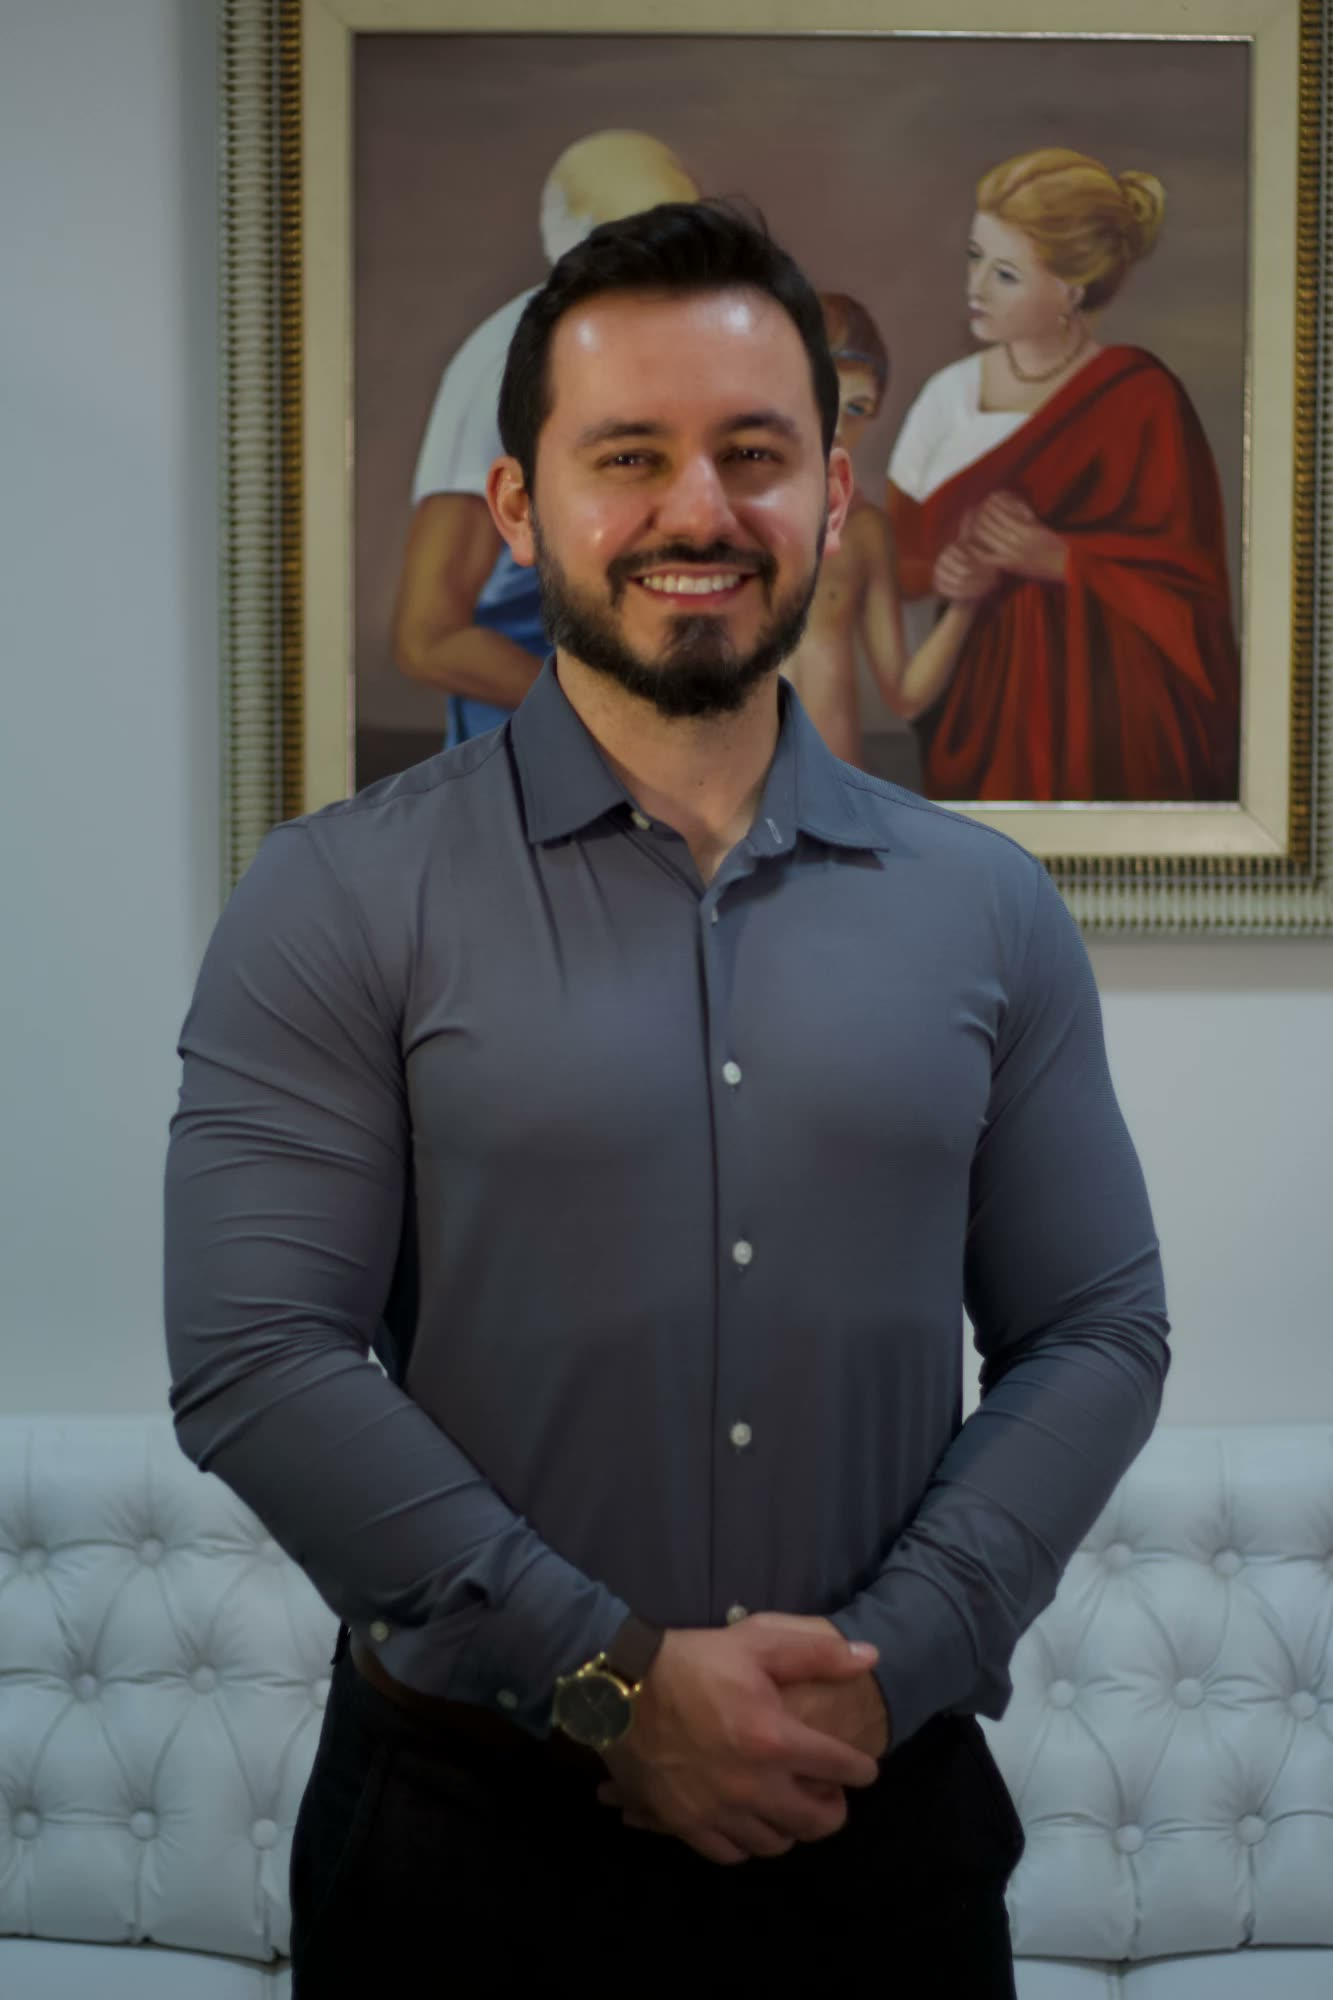
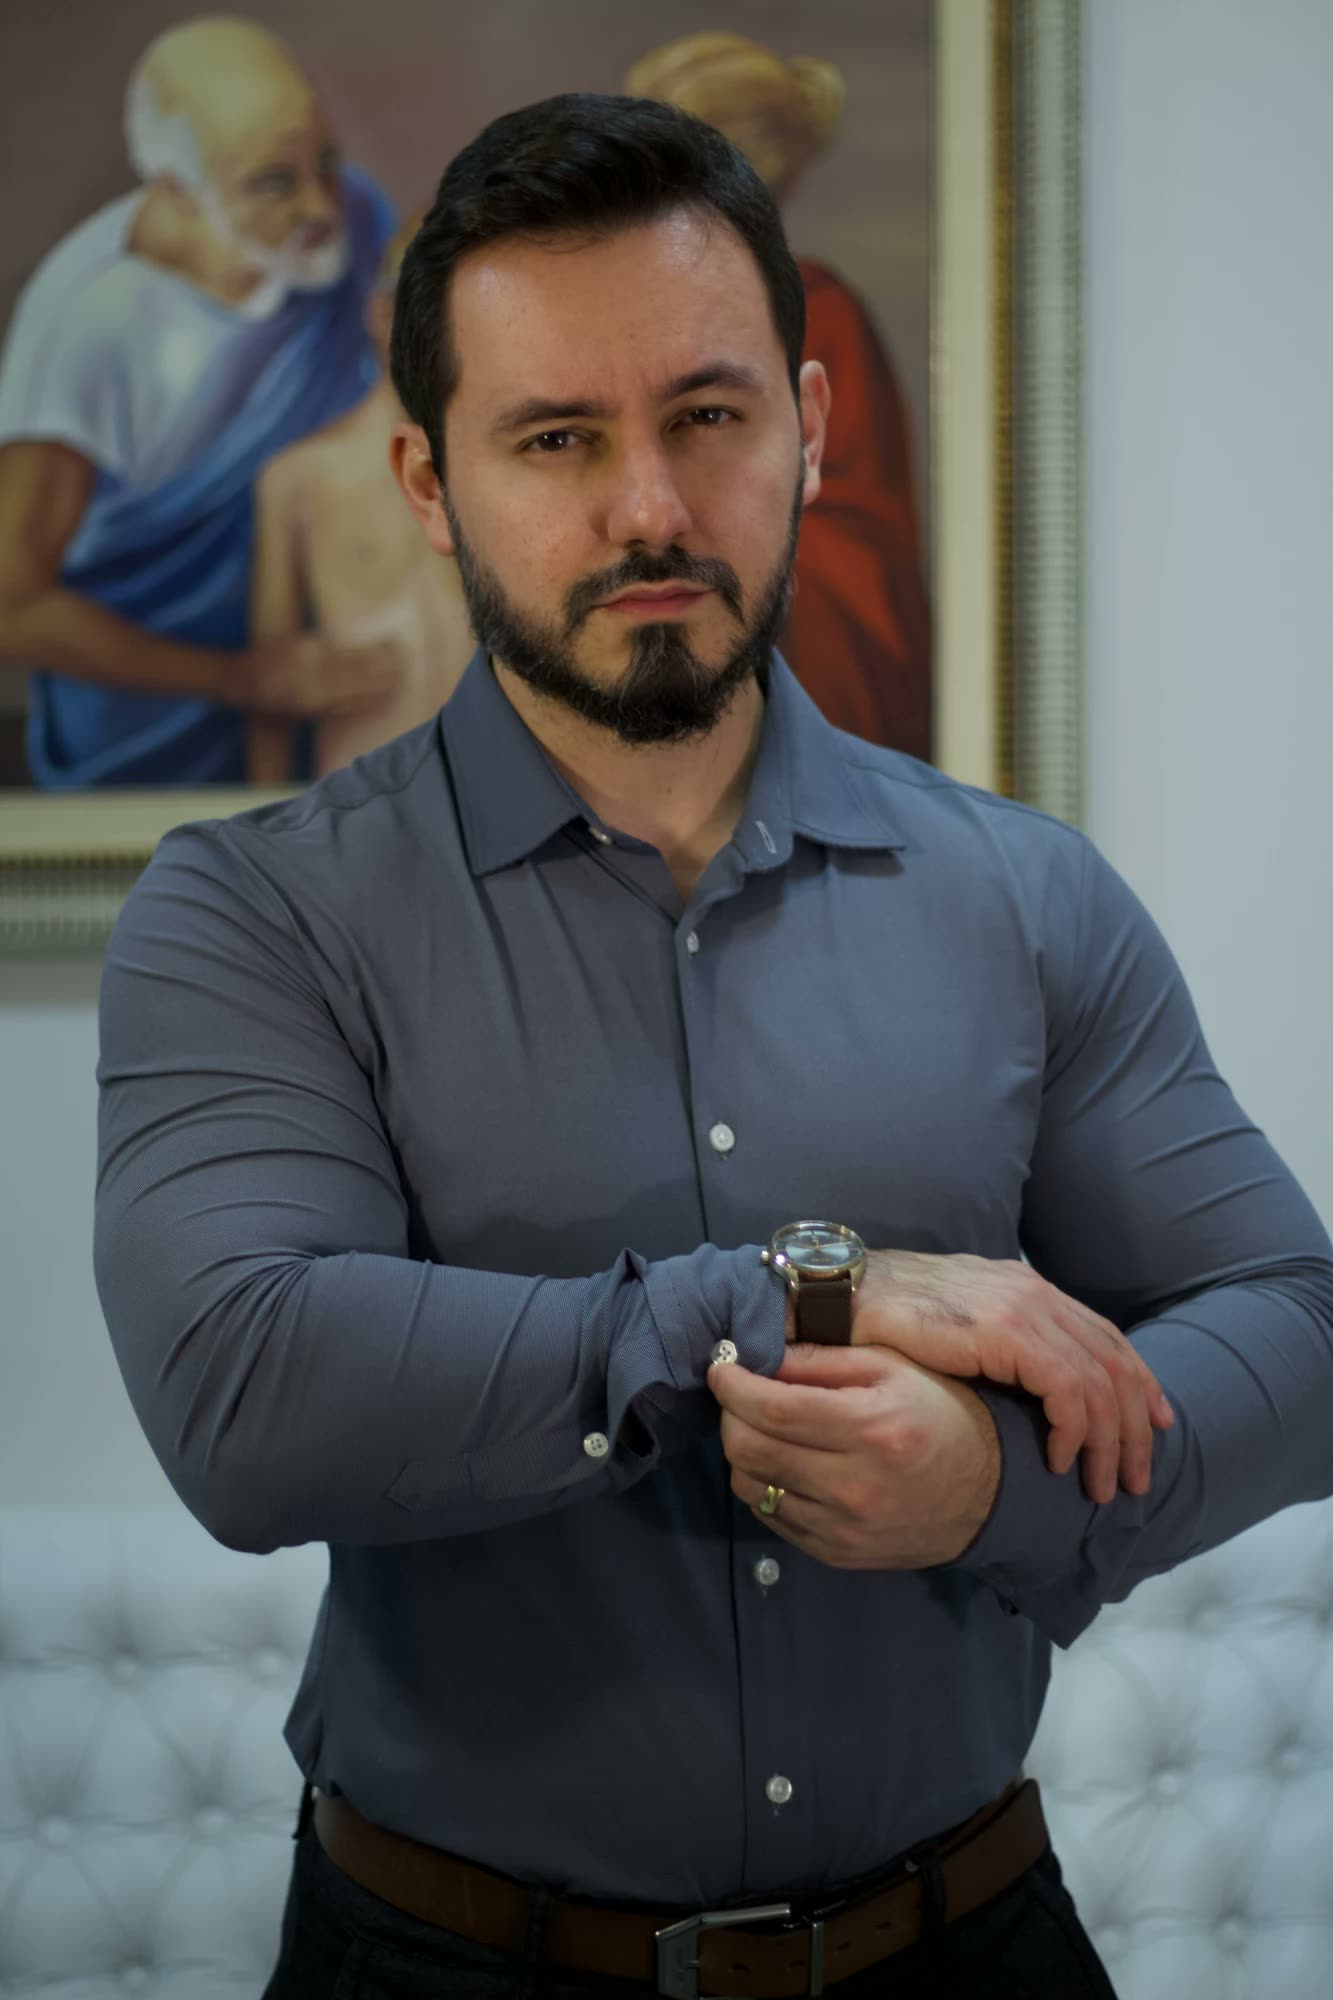
Troca o retrato da seção Experiência pelo de braços cruzados

diff --git a/index.html b/index.html
@@ -1675,7 +1675,7 @@ a.ct-row:hover i{color:#fff;transform:translate(2px,-2px)}
       </div>
     </div>
     <figure class="auth-photo rv" id="authPhoto">
-      <div class="frame"><img src="img/dr-savio-retrato-consultorio.jpg" alt="Dr. Sávio Reis sorrindo, de camisa cinza e braços cruzados, em seu consultório." width="1333" height="2000" loading="lazy" decoding="async"></div>
+      <div class="frame"><img src="img/dr-savio-retrato-consultorio.jpg" alt="Dr. Sávio Reis de camisa cinza e braços cruzados, olhando para a câmera, em seu consultório." width="1333" height="2000" loading="lazy" decoding="async"></div>
       <span class="ring" aria-hidden="true"></span>
       <figcaption class="cap mono"><span>Dr. Sávio Reis</span><span>Neurocirurgião</span></figcaption>
     </figure>
